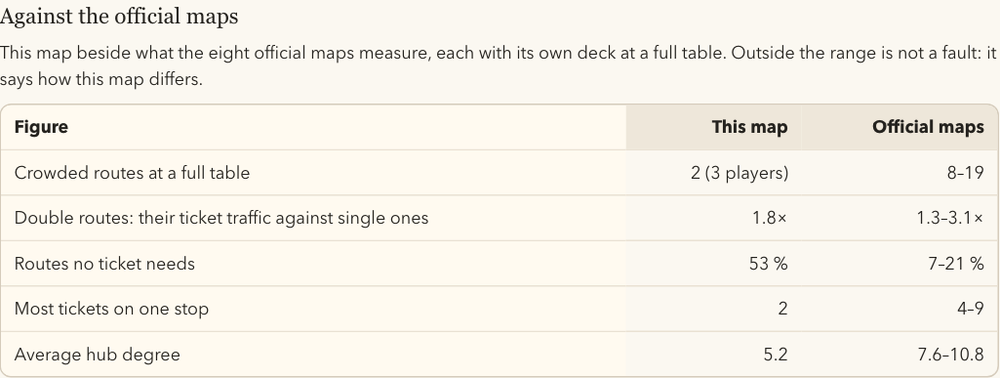
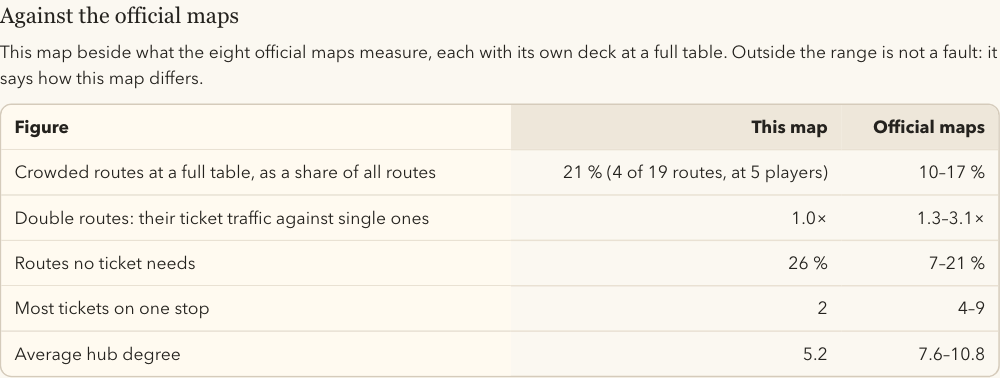
The example map is for the standard two to five players, with decks of 15 tickets

diff --git a/app/map-data.ts b/app/map-data.ts
@@ -398,9 +398,9 @@ ${routePointsTable()}
   ],
   wagonStyles: defaultWagonStyles.map((style) => ({ ...style })),
   stopTypeStyles: defaultStopTypeStyles.map((style) => ({ ...style })),
-  // Two or three players, and a wagon count that leaves the table about three and a half supplies of
-  // room. Both decks can deal three players three tickets each.
-  players: { min: 2, max: 3 },
+  // The standard two to five players (none is stated, so DEFAULT_PLAYERS holds), and a wagon count that
+  // leaves the board about three and a half supplies of room. Both decks can deal five players three
+  // tickets each.
   wagonsPerPlayer: 28,
   startingTickets: DEFAULT_STARTING_TICKETS,
   keptTickets: DEFAULT_KEPT_TICKETS,
@@ -426,6 +426,17 @@ ${routePointsTable()}
     { id: "example-ticket-17", a: "example-fernside", b: "example-northfield", points: 21, long: true, set: "example-long" },
     { id: "example-ticket-18", a: "example-lakeside", b: "example-brickworks", points: 20, long: true, set: "example-long" },
     { id: "example-ticket-19", a: "example-westport", b: "example-quarry", points: 26, long: true, set: "example-long" },
+    { id: "example-ticket-20", a: "example-harbour", b: "example-brickworks", points: 10, set: "main" },
+    { id: "example-ticket-21", a: "example-central", b: "example-northfield", points: 10, set: "main" },
+    { id: "example-ticket-22", a: "example-old-town", b: "example-gull-island", points: 11, set: "main" },
+    { id: "example-ticket-23", a: "example-pine-hill", b: "example-lakeside", points: 12, set: "main" },
+    { id: "example-ticket-24", a: "example-pine-hill", b: "example-eastgate", points: 20, long: true, set: "main" },
+    { id: "example-ticket-25", a: "example-harbour", b: "example-deepcut", points: 11, set: "example-long" },
+    { id: "example-ticket-26", a: "example-lakeside", b: "example-millbrook", points: 10, set: "example-long" },
+    { id: "example-ticket-27", a: "example-eastgate", b: "example-gull-island", points: 11, set: "example-long" },
+    { id: "example-ticket-28", a: "example-central", b: "example-old-town", points: 10, set: "example-long" },
+    { id: "example-ticket-29", a: "example-harbour", b: "example-millbrook", points: 20, long: true, set: "example-long" },
+    { id: "example-ticket-30", a: "example-northfield", b: "example-brickworks", points: 20, long: true, set: "example-long" },
   ],
   background: [
     { id: "example-lake", type: "area", label: "Lake", labelPoint: { x: 745, y: 350 }, points: [{ x: 630, y: 222 }, { x: 668, y: 190 }, { x: 735, y: 205 }, { x: 812, y: 248 }, { x: 848, y: 300 }, { x: 878, y: 372 }, { x: 900, y: 452 }, { x: 868, y: 478 }, { x: 815, y: 462 }, { x: 760, y: 440 }, { x: 700, y: 415 }, { x: 655, y: 380 }, { x: 625, y: 325 }, { x: 618, y: 270 }], fill: "#b8ddea", stroke: "#4f8394", opacity: 0.65, strokeWidth: 3, locked: true },

diff --git a/app/version.ts b/app/version.ts
@@ -10,6 +10,7 @@ export type Release = { version: string; date: string; title: string; changes: s
 // the top of CHANGELOG.md under Unreleased, and become the notes of the next version when it is
 // decided; the What's new page in the editor shows released versions only.
 export const UNRELEASED: string[] = [
+  "The example map is now for the standard two to five players, and both of its ticket decks have 15 tickets, enough to deal a full table. The pictures on the About page show it as it is.",
   "How tense a full deck of tickets is can be set on a slider from calm to tense, not only in three steps, with what each place means beside the official decks. Calm is now a little calmer, and tense a little tenser, than any official map.",
   "Map balance sets crowded routes against the official maps as a share of all routes (10–17 % on the official maps), since a count grows with the size of the map. The printed balance page says the same.",
   "The tour video in the welcome box starts loading as soon as you point at it, and shows a note while the player loads instead of an empty box. In Safari, which does not let a video start by itself, press play once more in the player.",

diff --git a/CHANGELOG.md b/CHANGELOG.md
@@ -8,6 +8,7 @@ This file is written from `app/version.ts` by `npm run changelog`; edit the note
 
 Changes since the last release, to go into the next version.
 
+- The example map is now for the standard two to five players, and both of its ticket decks have 15 tickets, enough to deal a full table. The pictures on the About page show it as it is.
 - How tense a full deck of tickets is can be set on a slider from calm to tense, not only in three steps, with what each place means beside the official decks. Calm is now a little calmer, and tense a little tenser, than any official map.
 - Map balance sets crowded routes against the official maps as a share of all routes (10–17 % on the official maps), since a count grows with the size of the map. The printed balance page says the same.
 - The tour video in the welcome box starts loading as soon as you point at it, and shows a note while the player loads instead of an empty box. In Safari, which does not let a video start by itself, press play once more in the player.
